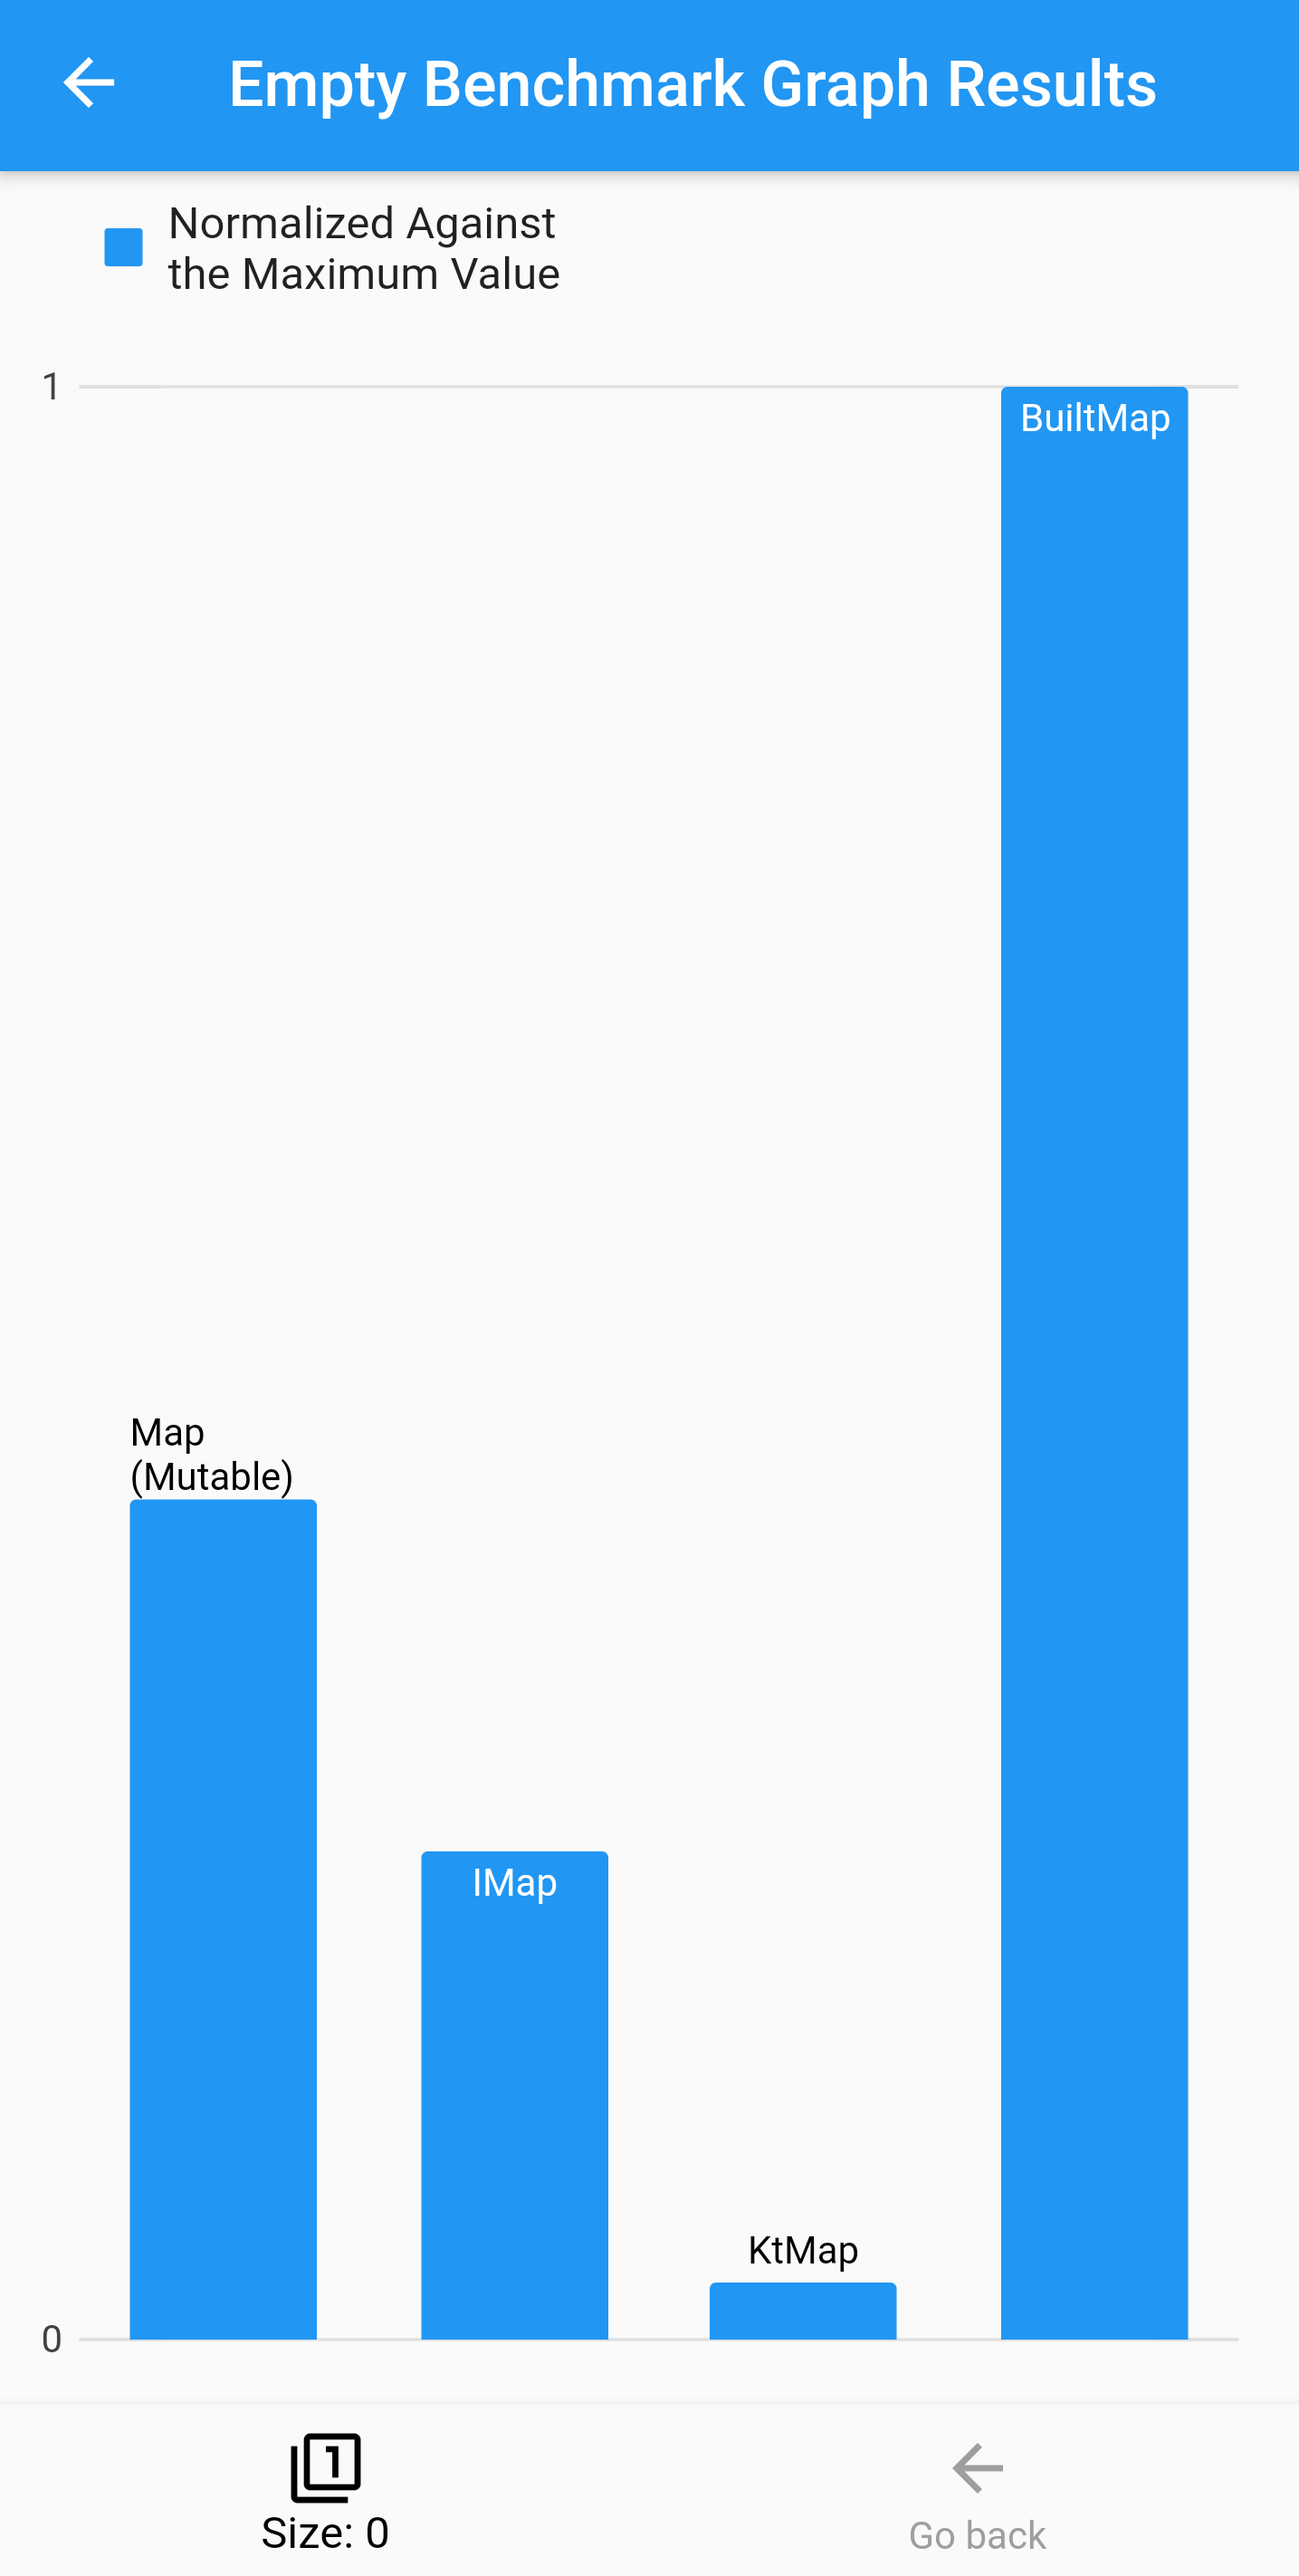
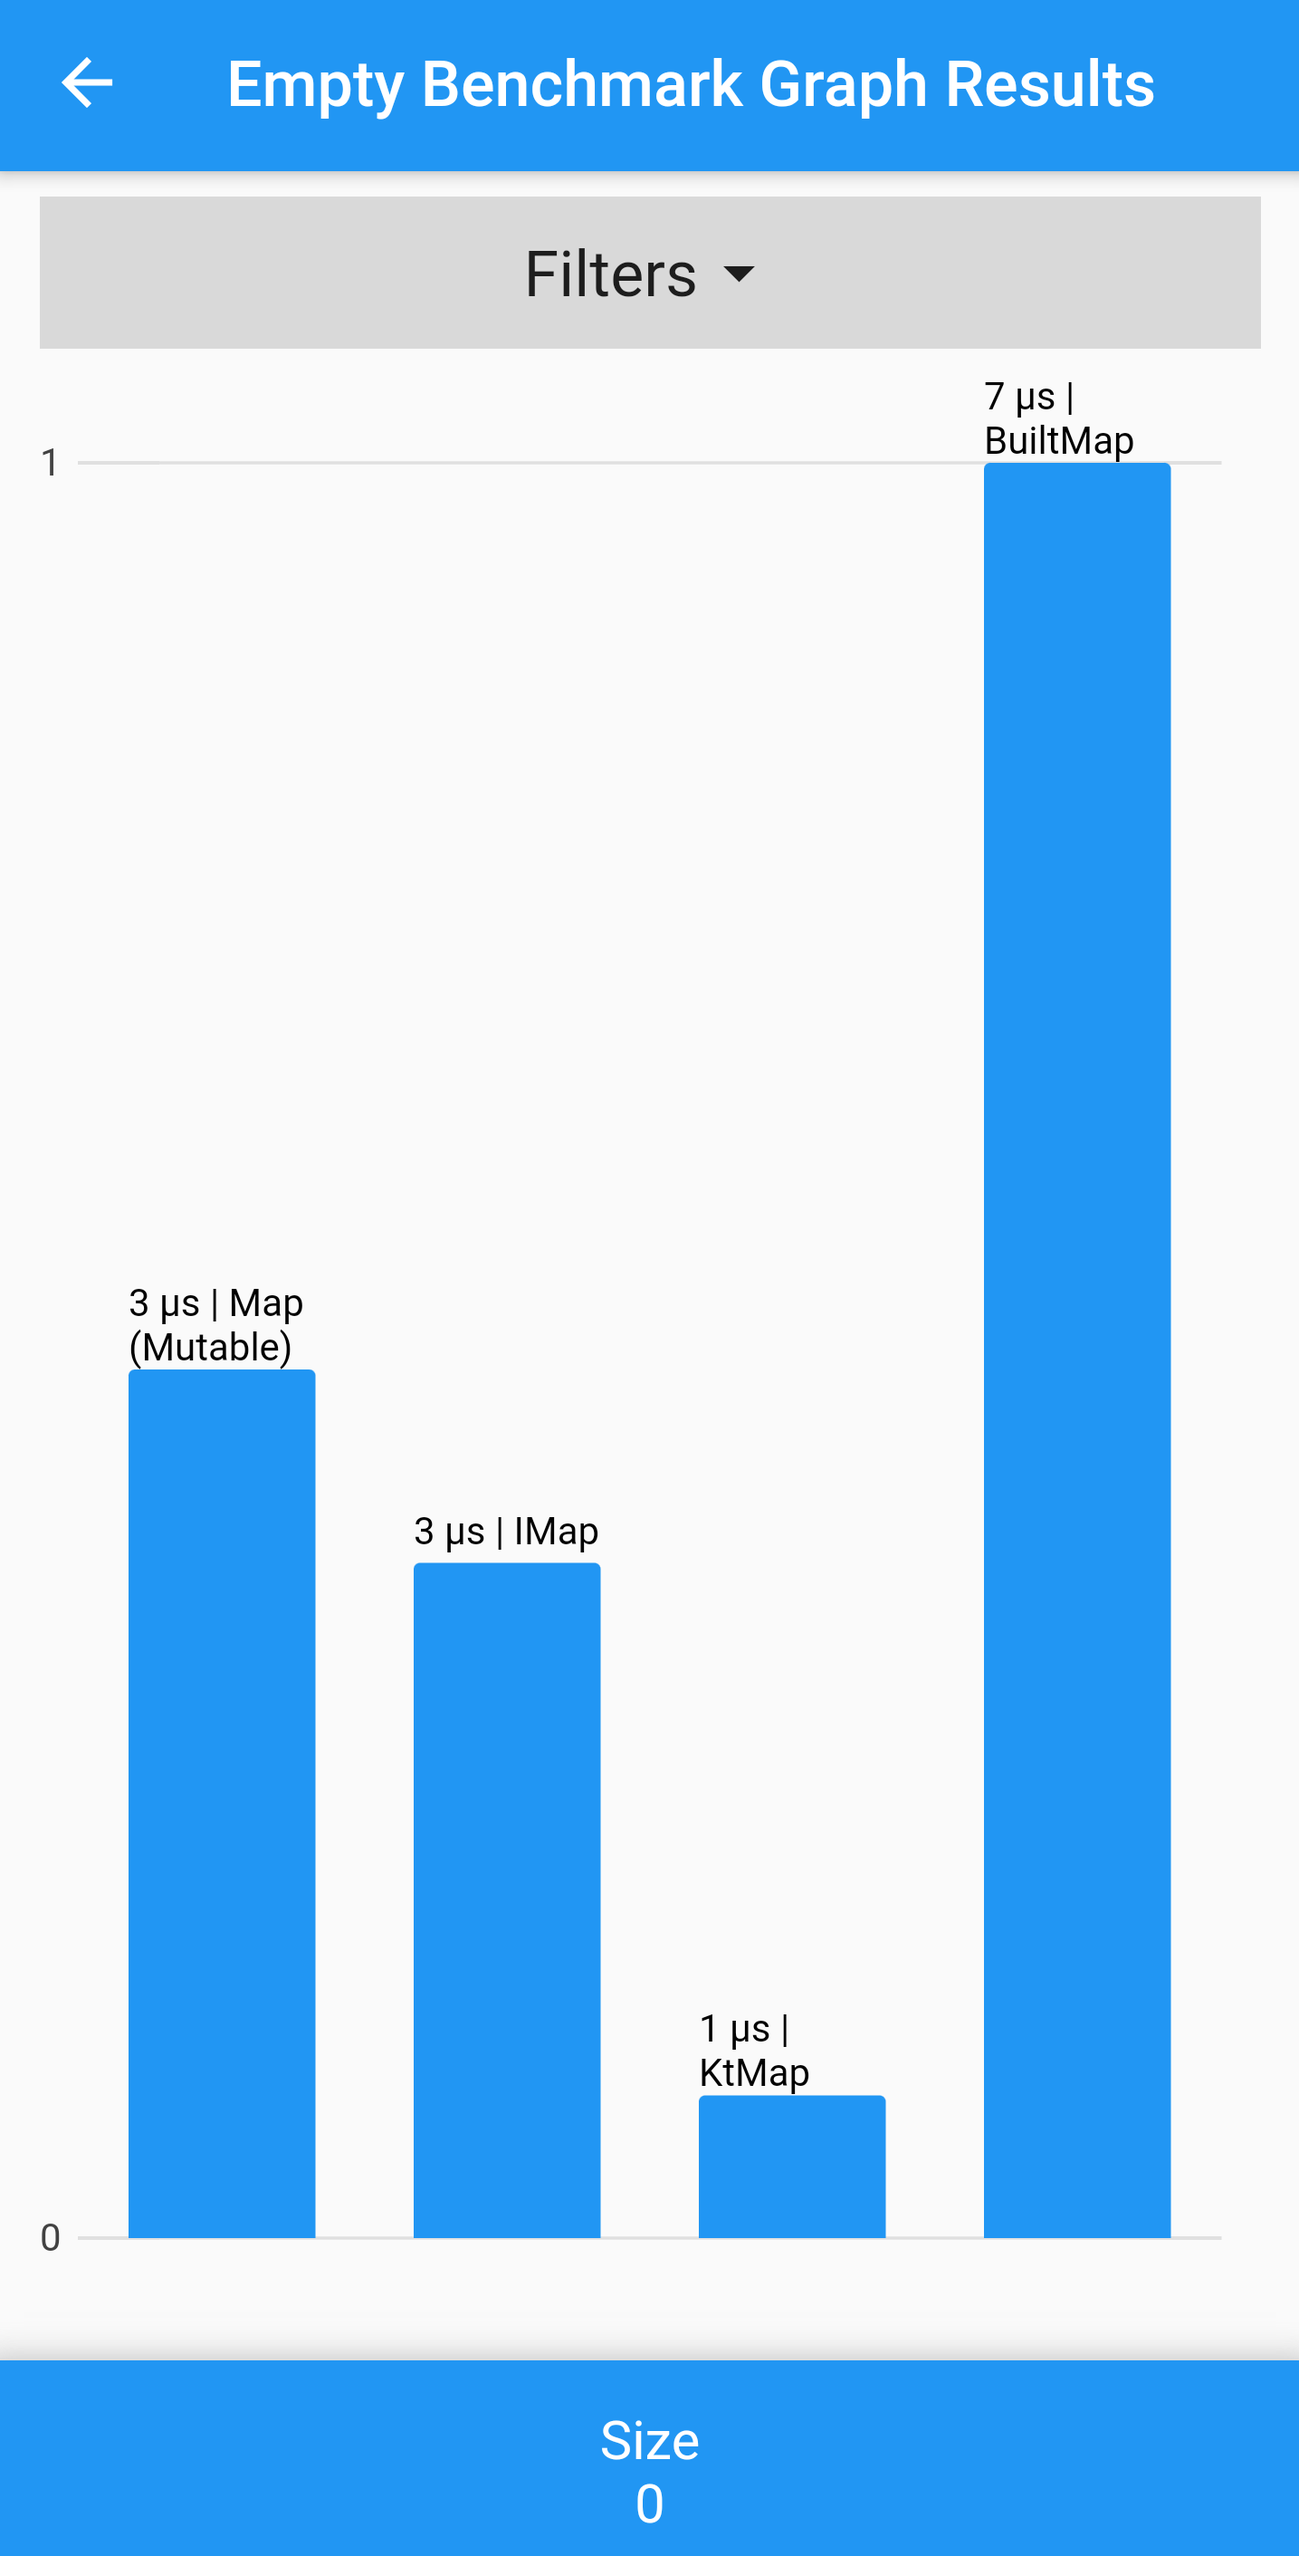
new benchmark images

Changed region(s): [[0.0, 0.0312, 1.0, 1.0], [0.092, 0.4989, 0.2453, 0.5925]]

diff --git a/benchmark/lib/src/cases/map/remove.dart b/benchmark/lib/src/cases/map/remove.dart
@@ -106,7 +106,7 @@ class KtMapRemoveBenchmark extends MapBenchmarkBase {
 
 class BuiltMapMapRemoveBenchmark extends MapBenchmarkBase {
   BuiltMapMapRemoveBenchmark({@required TableScoreEmitter emitter})
-      : super(name: "KtMap", emitter: emitter);
+      : super(name: "BuiltMap", emitter: emitter);
 
   BuiltMap<String, int> builtMap;
 

diff --git a/benchmark/lib/src/cases/set/add.dart b/benchmark/lib/src/cases/set/add.dart
@@ -42,7 +42,7 @@ class MutableSetAddBenchmark extends SetBenchmarkBase {
   void setup() {
     count = 0;
     initialSet = [];
-    for (int i = 0; i <= max(1, 10000000 ~/ config.size); i++)
+    for (int i = 0; i <= max(1, 1000000 ~/ config.size); i++)
       initialSet.add(SetBenchmarkBase.getDummyGeneratedSet(size: config.size));
   }
 

diff --git a/benchmark/benchmark_app/lib/screens/graph_screen.dart b/benchmark/benchmark_app/lib/screens/graph_screen.dart
@@ -66,7 +66,7 @@ class _GraphScreenState extends State<GraphScreen> {
         children: [
           _DropdownButton(showFilterDialog),
           Container(
-            height: 460,
+            height: 600,
             child: BarChart(recordsTable: filterNTimes(currentTable)),
           ),
         ],

diff --git a/benchmark/benchmark_app/lib/utils/benchmarks.dart b/benchmark/benchmark_app/lib/utils/benchmarks.dart
@@ -108,7 +108,7 @@ final List<Widget> listBenchmarks = [
       ListRemoveBenchmark(
         emitter: TableScoreEmitter(
           prefixName: "list_remove",
-          config: Config(size: 100),
+          config: Config(size: 10000),
         ),
       ),
     ],

diff --git a/README.md b/README.md
@@ -1481,40 +1481,32 @@ marked with `// TODO: Still needs to implement efficiently` and will be updated 
 
 Run the benchmarks preferably in *release mode*, and a green message on the snackbar will then appear:
 
-<img src="assets/benchmark_screenshots/example_run.png" height="500px"/>
+<img src="assets/benchmark_screenshots/FIC Opening.png" height="500px"/>
+<img src="assets/benchmark_screenshots/Example Run.png" height="500px"/>
 
 ### 8.1. List Benchmarks
 
 #### 8.1.1. List Add
 
-<img src="assets/benchmark_screenshots/list_add_10.png" height="500px"/>
-<img src="assets/benchmark_screenshots/list_add_100.png" height="500px"/>
-<img src="assets/benchmark_screenshots/list_add_500.png" height="500px"/>
-<img src="assets/benchmark_screenshots/list_add_all.png" height="500px"/>
+<img src="assets/benchmark_screenshots/list_add_1k.png" height="500px"/>
+<img src="assets/benchmark_screenshots/list_add_10k.png" height="500px"/>
+<img src="assets/benchmark_screenshots/list_add_100k.png" height="500px"/>
 
 <br />
 <br />
 
 If you wish for larger parameters, you can modify them in the [benchmark_app][benchmark_app] project.
 
-Here we add 10,000 items to a list with 10,000 integers of size:
-
-<img src="assets/benchmark_screenshots/list_add_10000_adds_10000.png" height="500px"/>
-
 <br />
 <br />
-
-And here we add 100 items to a list of 1,000,000 items:
-
-<img src="assets/benchmark_screenshots/list_add_1000000.png" height="500px"/>
 
 #### 8.1.2. List AddAll
 
-<img src="assets/benchmark_screenshots/list_addall.png" height="500px"/>
+<img src="assets/benchmark_screenshots/list_addAll_10k.png" height="500px"/>
 
 #### 8.1.3. List Contains
 
-<img src="assets/benchmark_screenshots/list_contains_100.png" height="500px"/>
+<img src="assets/benchmark_screenshots/list_contains_10k.png" height="500px"/>
 
 #### 8.1.4. List Empty
 
@@ -1522,32 +1514,31 @@ And here we add 100 items to a list of 1,000,000 items:
 
 #### 8.1.5. List Insert
 
-<img src="assets/benchmark_screenshots/list_insert.png" height="500px"/>
+<img src="assets/benchmark_screenshots/list_insert_1k.png" height="500px"/>
 
 #### 8.1.6. List Read
 
-<img src="assets/benchmark_screenshots/list_read_100.png" height="500px"/>
+<img src="assets/benchmark_screenshots/list_read_100k.png" height="500px"/>
 
 #### 8.1.7. List Remove
 
-<img src="assets/benchmark_screenshots/list_remove_100.png" height="500px"/>
+<img src="assets/benchmark_screenshots/list_remove_10k.png" height="500px"/>
 
 ### 8.2. Map Benchmarks
 
 #### 8.2.1. Map Add
 
 <img src="assets/benchmark_screenshots/map_add_10.png" height="500px"/>
-<img src="assets/benchmark_screenshots/map_add_100.png" height="500px"/>
-<img src="assets/benchmark_screenshots/map_add_500.png" height="500px"/>
-<img src="assets/benchmark_screenshots/map_add_all.png" height="500px"/>
+<img src="assets/benchmark_screenshots/map_add_1k.png" height="500px"/>
+<img src="assets/benchmark_screenshots/map_add_10k.png" height="500px"/>
 
 #### 8.2.2. Map AddAll
 
-<img src="assets/benchmark_screenshots/map_addall_10.png" height="500px"/>
+<img src="assets/benchmark_screenshots/map_addall_100k.png" height="500px"/>
 
 #### 8.2.3. Map ContainsValue
 
-<img src="assets/benchmark_screenshots/map_containsvalue.png" height="500px"/>
+<img src="assets/benchmark_screenshots/map_containsValue_10k.png" height="500px"/>
 
 #### 8.2.4. Map Empty
 
@@ -1555,28 +1546,29 @@ And here we add 100 items to a list of 1,000,000 items:
 
 #### 8.2.5. Map Read
 
-<img src="assets/benchmark_screenshots/map_read_1000.png" height="500px"/>
+<img src="assets/benchmark_screenshots/map_read_100k.png" height="500px"/>
 
 #### 8.2.5. Map Remove
 
-<img src="assets/benchmark_screenshots/map_remove_1000.png" height="500px"/>
+<img src="assets/benchmark_screenshots/map_remove_100k.png" height="500px"/>
 
 ### 8.3. Set Benchmarks
 
 #### 8.2.5. Set Add
 
 <img src="assets/benchmark_screenshots/set_add_10.png" height="500px"/>
-<img src="assets/benchmark_screenshots/set_add_50.png" height="500px"/>
-<img src="assets/benchmark_screenshots/set_add_100.png" height="500px"/>
-<img src="assets/benchmark_screenshots/set_add_all.png" height="500px"/>
+<img src="assets/benchmark_screenshots/set_add_1k.png" height="500px"/>
+<img src="assets/benchmark_screenshots/set_add_10k.png" height="500px"/>
 
 #### 8.2.6. Set AddAll
 
-<img src="assets/benchmark_screenshots/set_addall_100.png" height="500px"/>
+<img src="assets/benchmark_screenshots/set_addAll_10k.png" height="500px"/>
+<img src="assets/benchmark_screenshots/set_addAll_100k.png" height="500px"/>
 
 #### 8.2.6. Set Contains
 
-<img src="assets/benchmark_screenshots/set_contains_100.png" height="500px"/>
+<img src="assets/benchmark_screenshots/set_contains_1k.png" height="500px"/>
+<img src="assets/benchmark_screenshots/set_contains_10k.png" height="500px"/>
 
 #### 8.2.6. Set Empty
 
@@ -1585,6 +1577,9 @@ And here we add 100 items to a list of 1,000,000 items:
 #### 8.2.6. Set Remove
 
 <img src="assets/benchmark_screenshots/set_remove_100.png" height="500px"/>
+<img src="assets/benchmark_screenshots/set_remove_1k.png" height="500px"/>
+<img src="assets/benchmark_screenshots/set_remove_10k.png" height="500px"/>
+<img src="assets/benchmark_screenshots/set_remove_100k.png" height="500px"/>
 
 ---
 
